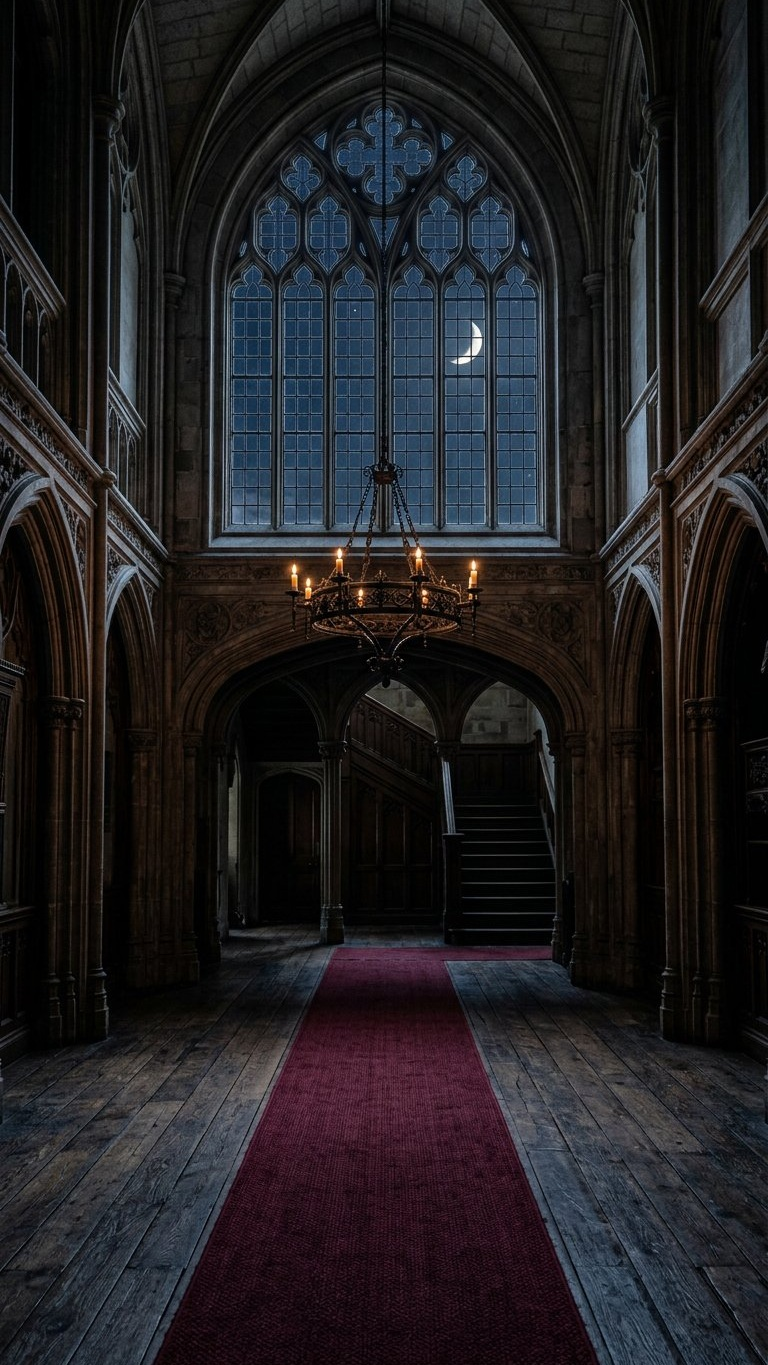
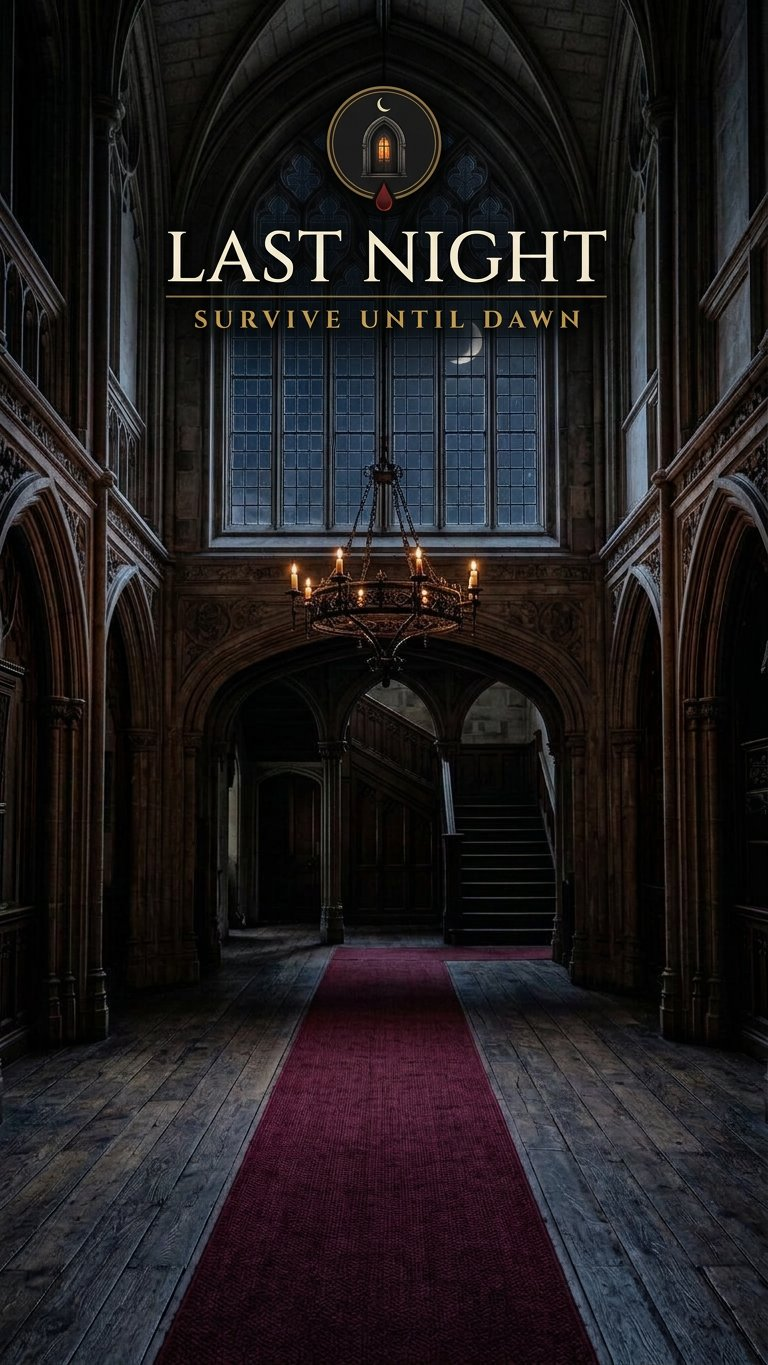
Bake the door mark and the wordmark into the plates.
Loading and the menu photographs now carry LAST NIGHT themselves. The screens no longer paint a second title over that lockup.

diff --git a/src/ui/screens.js b/src/ui/screens.js
@@ -155,17 +155,12 @@ function drawBrandPlate(ctx, w, h, { focus = 0.18, dim = 0.55 } = {}) {
 
 export function drawMenuScene(game, ctx, w, h, t) {
   // Vertical hall plate. A light wash only — the architecture is the identity.
-  drawBrandPlate(ctx, w, h, { focus: 0.5, dim: 0.08 });
-  const topWash = ctx.createLinearGradient(0, 0, 0, h * 0.28);
-  topWash.addColorStop(0, 'rgba(5,6,11,0.72)');
-  topWash.addColorStop(1, 'rgba(5,6,11,0)');
-  ctx.fillStyle = topWash;
-  ctx.fillRect(0, 0, w, h * 0.28);
-  const botWash = ctx.createLinearGradient(0, h * 0.48, 0, h);
+  drawBrandPlate(ctx, w, h, { focus: 0.5, dim: 0 });
+  const botWash = ctx.createLinearGradient(0, h * 0.52, 0, h);
   botWash.addColorStop(0, 'rgba(5,6,11,0)');
-  botWash.addColorStop(1, 'rgba(5,6,11,0.55)');
+  botWash.addColorStop(1, 'rgba(5,6,11,0.42)');
   ctx.fillStyle = botWash;
-  ctx.fillRect(0, h * 0.48, w, h * 0.52);
+  ctx.fillRect(0, h * 0.52, w, h * 0.48);
   ctx.strokeStyle = 'rgba(168,131,60,0.55)';
   ctx.lineWidth = 1;
   ctx.strokeRect(10.5, 10.5, w - 21, h - 21);
@@ -174,7 +169,7 @@ export function drawMenuScene(game, ctx, w, h, t) {
   // Industry rule for a hero screen: the menu shows WHAT YOU PLAY, so the
   // loaded GLB itself stands in the hall (its rest pose, evaluated once).
   // The procedural figure survives only while the GLB is unavailable.
-  const px = w * 0.5, py = h * 0.5;
+  const px = w * 0.5, py = h * 0.46;
   const br = Math.sin(t * 1.1) * 2.6;
   const vframe = Valen3D.renderMenu();
   ctx.save();
@@ -192,7 +187,7 @@ export function drawMenuScene(game, ctx, w, h, t) {
   ctx.closePath(); ctx.fill();
   ctx.restore();
   if (vframe) {
-    Valen3D.draw(ctx, vframe, h * 0.28 / scale, { footInset: 8 });
+    Valen3D.draw(ctx, vframe, h * 0.2 / scale, { footInset: 8 });
   } else {
     // coat
     const coatG = ctx.createLinearGradient(0, -180, 0, 10);
@@ -243,7 +238,7 @@ export function drawMenuScene(game, ctx, w, h, t) {
   ctx.save();
   const vg = ctx.createRadialGradient(w / 2, h / 2, h * 0.2, w / 2, h / 2, h * 0.95);
   vg.addColorStop(0, 'rgba(0,0,0,0)');
-  vg.addColorStop(1, 'rgba(0,0,0,0.45)');
+  vg.addColorStop(1, 'rgba(0,0,0,0.22)');
   ctx.fillStyle = vg;
   ctx.fillRect(0, 0, w, h);
   ctx.restore();
@@ -288,14 +283,14 @@ export function drawTitle(game, ctx, w, h, t) {
 export function drawMenu(game, ctx, w, h) {
   const t = game.time;
   drawMenuScene(game, ctx, w, h, t);
-  drawTitle(game, ctx, w, h, t);
+  // The plate already carries the crest and the wordmark. Do not paint a second title over it.
   // build stamp — small, honest, visible: v1.0.0-beta line
   ctx.save();
   ctx.textAlign = 'left';
   ctx.font = `400 10px ${MONO}`;
   if ('letterSpacing' in ctx) ctx.letterSpacing = '1px';
-  ctx.fillStyle = 'rgba(140,134,124,0.4)';
-  ctx.fillText('v' + GAME_VERSION + '  ·  18+' + (IAP.owns(game.save, 'title_dawnbreaker') ? '  ·  DAWNBREAKER' : ''), isPhone(w, h) ? 78 : 92, 18);
+  ctx.fillStyle = 'rgba(180,172,158,0.55)';
+  ctx.fillText('v' + GAME_VERSION + '  ·  18+' + (IAP.owns(game.save, 'title_dawnbreaker') ? '  ·  DAWNBREAKER' : ''), 16, h - 16);
   ctx.restore();
 
   if (!game.save.privacyAck) {

diff --git a/styles.css b/styles.css
@@ -124,49 +124,18 @@ canvas#game {
   height: 100%;
   object-fit: cover;
   object-position: center center;
-  /* The file is already 9:16. Do not blur, filter, or rescale it off that frame. */
   image-rendering: auto;
 }
-.veil-frame::after {
-  content: "";
-  position: absolute;
-  left: 0; right: 0; bottom: 0;
-  height: 34%;
-  background: linear-gradient(180deg, rgba(5,6,11,0) 0%, rgba(5,6,11,0.78) 70%, rgba(5,6,11,0.92) 100%);
-  pointer-events: none;
-}
-.veil-inner {
-  position: absolute;
-  left: 0; right: 0; bottom: 6.5%;
-  z-index: 1;
-  text-align: center;
-}
-.veil-mark { width: 64px; height: 64px; display: block; margin: 0 auto 8px; }
-.veil-title {
-  font-size: clamp(28px, 8.4vw, 52px);
-  letter-spacing: .18em;
-  color: #e8e0cc;
-  text-shadow: 0 2px 0 rgba(0,0,0,0.65);
-}
-.veil-rule {
-  width: 36%;
-  height: 1px;
-  margin: 12px auto 10px;
-  background: #a8833c;
-}
-.veil-sub {
-  margin-top: 0;
-  font-size: clamp(10px, 2.6vw, 13px);
-  letter-spacing: .32em;
-  color: #a8833c;
-  text-transform: uppercase;
-  font-family: "Segoe UI", Roboto, sans-serif;
-}
 .veil-bar {
-  margin: 2.2em auto 0;
-  width: min(240px, 60vw);
+  position: absolute;
+  left: 50%;
+  bottom: 18px;
+  transform: translateX(-50%);
+  z-index: 1;
+  margin: 0;
+  width: min(180px, 46%);
   height: 2px;
-  background: rgba(200, 190, 172, .12);
+  background: rgba(200, 190, 172, .22);
   overflow: hidden;
 }
 .veil-bar span {
@@ -186,11 +155,7 @@ canvas#game {
   100% { transform: translateX(320%); }
 }
 
-@media (max-width: 380px) {
-  .veil-title { letter-spacing: 0.1em; font-size: 26px; }
-  .veil-sub { letter-spacing: 0.16em; }
-  .veil-mark { width: 52px; height: 52px; }
-}
+
 
 /* The night owns the corners. The policy link stays on every menu. */
 body[data-screen="playing"] #privacy-link,

diff --git a/brand/index.html b/brand/index.html
@@ -47,18 +47,16 @@
     <h1>LAST NIGHT</h1>
     <div class="rule"></div>
     <div class="tag">SURVIVE UNTIL DAWN</div>
-    <p>Mobile first. Every screen is a vertical 9:16 frame. Type is vector. The photographs are the plates below, shown at their own aspect so they are not stretched.</p>
+    <p>Mobile first. The loading plate and the menu plate already carry the door mark and the wordmark. Do not paint a second title on top of them.</p>
   </header>
   <section>
     <h2>PLATES · 768 × 1365</h2>
     <div class="phones">
       <figure class="phone">
-        <img class="plate" src="../assets/brand/loading-9x16.jpg" alt="Loading plate" />
-        <figcaption>LOADING</figcaption>
+        <img class="plate" src="../assets/brand/loading-9x16.jpg" alt="Loading plate with the LAST NIGHT wordmark and door mark" />
       </figure>
       <figure class="phone">
-        <img class="plate" src="../assets/brand/menu-9x16.jpg" alt="Menu plate" />
-        <figcaption>MENU</figcaption>
+        <img class="plate" src="../assets/brand/menu-9x16.jpg" alt="Menu plate with the LAST NIGHT wordmark and door mark" />
       </figure>
     </div>
   </section>

diff --git a/index.html b/index.html
@@ -20,14 +20,8 @@
 
   <div id="veil">
     <div class="veil-frame">
-      <img class="veil-photo" src="./assets/brand/loading-9x16.jpg" width="768" height="1365" alt="" />
-      <div class="veil-inner">
-        <img class="veil-mark" src="./assets/brand/mark.svg" alt="" />
-        <div class="veil-title">LAST NIGHT</div>
-        <div class="veil-rule"></div>
-        <div class="veil-sub">survive until dawn</div>
-        <div class="veil-bar"><span></span></div>
-      </div>
+      <img class="veil-photo" src="./assets/brand/loading-9x16.jpg" width="768" height="1365" alt="LAST NIGHT" />
+      <div class="veil-bar"><span></span></div>
     </div>
   </div>
 
